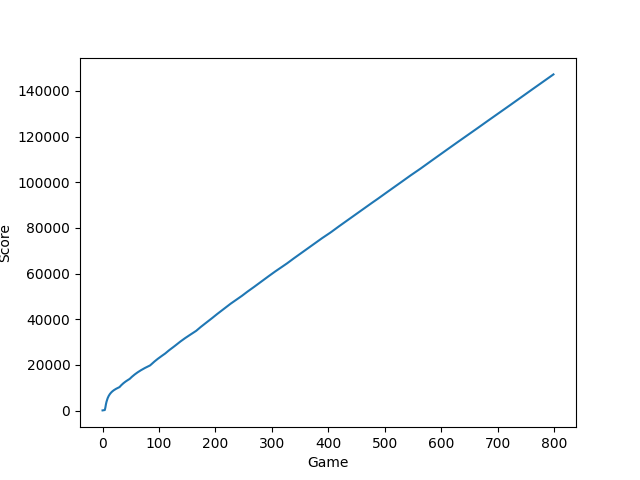
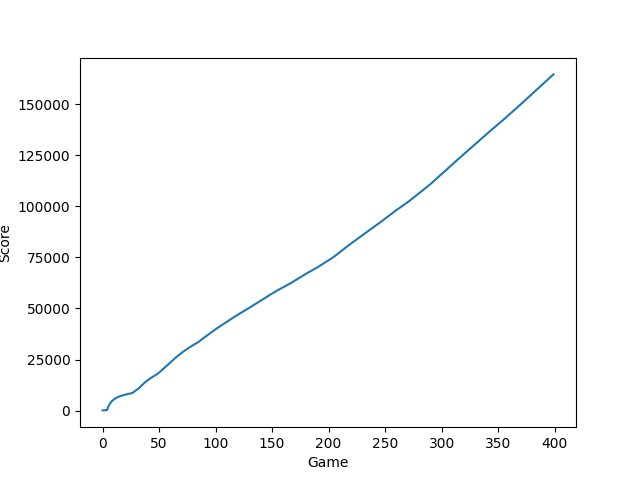
output from actor isn't weight yet

diff --git a/environment/environment.py b/environment/environment.py
@@ -12,12 +12,13 @@ def GenerateRandomState(n):
 
 class TaskAllocationEnvironment(Env):
     def __init__(self, cpuPower, ddl):
-        self.cpuPower = cpuPower
+        self.cpuPower = np.array(cpuPower)
         self.Num_worker = len(cpuPower)
         self.state = GenerateRandomState(self.Num_worker)
         self.completion = [1,1,1]
         self.ddl = ddl
-        self.task = 30
+        self.task = []
+        self.taskList = []
     """
         execute action and return next state and reward
         @:param action: a list of task allocation
@@ -26,28 +27,19 @@ class TaskAllocationEnvironment(Env):
         info = ''
         # sort_index = np.argsort(self.taskList)
         # sort_index2 = np.argsort(action)
-        self.completion = []
-        for i in range(self.Num_worker):
-            status = self.task * action[i] / self.cpuPower[i] - self.ddl
-            if self.task * action[i] / self.cpuPower[i] - self.ddl <= 0:
-                self.state[i] = 1
-            else:
-                self.state[i] = 0
-            self.completion.append(self.task * action[i]) #adding completion influence
 
+        allocation = np.array(self.allocateTask(sorted(self.taskList), action))
 
-        reward = 0
-        for i in range(self.Num_worker):
-            reward += self.task * action[i] * self.state[i]
-        cost = 0
-        for i in range(self.Num_worker):
-            cost += self.task * action[i] * (self.state[i] - 1)
+        self.state = allocation / self.cpuPower < self.ddl
+        reward = self.state * allocation
+
         done = all(d == 1 for d in self.state)
         print('reward ', reward)
-        return self.state + [self.task] + self.completion, reward, done, info
+        print('state', self.state)
+        return self.task , float(np.sum(reward)), done, info
 
     def observe(self):
-        return self.state + [self.task] + self.completion
+        return self.task
 
     """
         code from tutorial
@@ -62,5 +54,25 @@ class TaskAllocationEnvironment(Env):
     """
     def reset(self):
         pass
+
+    def allocateTask(self, sort_train, predicted_load_capacity):
+        allocation = [0] * predicted_load_capacity
+        for a in sort_train:
+            assign = False
+            for i in range(len(predicted_load_capacity)):
+                if a < predicted_load_capacity[i] - allocation[i]:
+                    allocation[i] += a
+                    assign = True
+                    break
+
+            if assign:
+                continue
+
+            exceed = []
+            for i in range(len(predicted_load_capacity)):
+                exceed.append(a - predicted_load_capacity[i] + allocation[i])
+            best_exceed = np.argmin(np.array(exceed))
+            allocation[best_exceed] += a
+        return allocation
 
 

diff --git a/model/critic.py b/model/critic.py
@@ -15,7 +15,7 @@ class CriticNetwork(nn.Module):
         self.n_actions = n_actions
         self.checkpoint_file = os.path.join(chkpt_dir, name + '_ddpg')
 
-        self.fc1 = nn.Linear(*self.input_dims, self.fc1_dims)
+        self.fc1 = nn.Linear(3, self.fc1_dims)
         f1 = 1. / np.sqrt(self.fc1.weight.data.size()[0])
         T.nn.init.uniform_(self.fc1.weight.data, -f1, f1)
         T.nn.init.uniform_(self.fc1.bias.data, -f1, f1)
@@ -23,40 +23,22 @@ class CriticNetwork(nn.Module):
         # self.fc1.bias.data.uniform_(-f1, f1)
         self.bn1 = nn.LayerNorm(self.fc1_dims)
 
-        self.fc2 = nn.Linear(self.fc1_dims, self.fc2_dims)
+        self.fc2 = nn.Linear(self.fc1_dims, 1)
         f2 = 1. / np.sqrt(self.fc2.weight.data.size()[0])
         # f2 = 0.002
         T.nn.init.uniform_(self.fc2.weight.data, -f2, f2)
         T.nn.init.uniform_(self.fc2.bias.data, -f2, f2)
-        # self.fc2.weight.data.uniform_(-f2, f2)
-        # self.fc2.bias.data.uniform_(-f2, f2)
-        self.bn2 = nn.LayerNorm(self.fc2_dims)
-
-        self.action_value = nn.Linear(self.n_actions, self.fc2_dims)
-        f3 = 0.003
-        self.q = nn.Linear(self.fc2_dims, 1)
-        T.nn.init.uniform_(self.q.weight.data, -f3, f3)
-        T.nn.init.uniform_(self.q.bias.data, -f3, f3)
-        # self.q.weight.data.uniform_(-f3, f3)
-        # self.q.bias.data.uniform_(-f3, f3)
 
         self.optimizer = optim.Adam(self.parameters(), lr=beta)
         self.device = T.device('cuda:0' if T.cuda.is_available() else 'cpu')
 
         self.to(self.device)
 
-    def forward(self, state, action):
-        state_value = self.fc1(state)
-        state_value = self.bn1(state_value)
-        state_value = F.relu(state_value)
-        state_value = self.fc2(state_value)
-        state_value = self.bn2(state_value)
+    def forward(self, action):
+        x = self.fc1(action)
+        x = self.fc2(x)
 
-        action_value = F.relu(self.action_value(action))
-        state_action_value = F.relu(T.add(state_value, action_value))
-        state_action_value = self.q(state_action_value)
-
-        return state_action_value
+        return x
 
     def save_checkpoint(self):
         print('... saving checkpoint ...')

diff --git a/model/actor.py b/model/actor.py
@@ -1,6 +1,7 @@
 import os
 
 import numpy as np
+import torch
 import torch.nn as nn
 import torch as T
 import torch.nn.functional as F
@@ -17,31 +18,10 @@ class ActorNetwork(nn.Module):
         self.n_actions = n_actions
         self.checkpoint_file = os.path.join(chkpt_dir, name + '_ddpg')
 
-        self.fc1 = nn.Linear(*self.input_dims, self.fc1_dims)
+        self.fc1 = nn.Linear(*self.input_dims, self.n_actions)
         f1 = 1. / np.sqrt(self.fc1.weight.data.size()[0])
         T.nn.init.uniform_(self.fc1.weight.data, -f1, f1)
         T.nn.init.uniform_(self.fc1.bias.data, -f1, f1)
-        # self.fc1.weight.data.uniform_(-f1, f1)
-        # self.fc1.bias.data.uniform_(-f1, f1)
-        self.bn1 = nn.LayerNorm(self.fc1_dims)
-
-        self.fc2 = nn.Linear(self.fc1_dims, self.fc2_dims)
-        # f2 = 0.002
-        f2 = 1. / np.sqrt(self.fc2.weight.data.size()[0])
-        T.nn.init.uniform_(self.fc2.weight.data, -f2, f2)
-        T.nn.init.uniform_(self.fc2.bias.data, -f2, f2)
-        # self.fc2.weight.data.uniform_(-f2, f2)
-        # self.fc2.bias.data.uniform_(-f2, f2)
-        self.bn2 = nn.LayerNorm(self.fc2_dims)
-
-        # f3 = 0.004
-        f3 = 0.003
-        self.mu = nn.Linear(self.fc2_dims, self.n_actions)
-        T.nn.init.uniform_(self.mu.weight.data, -f3, f3)
-        T.nn.init.uniform_(self.mu.bias.data, -f3, f3)
-        # self.mu.weight.data.uniform_(-f3, f3)
-        # self.mu.bias.data.uniform_(-f3, f3)
-
         self.optimizer = optim.Adam(self.parameters(), lr=alpha)
         self.device = T.device('cuda:0' if T.cuda.is_available() else 'cpu')
 
@@ -54,18 +34,10 @@ class ActorNetwork(nn.Module):
         :return: need to find a way to define action
         """
         x = self.fc1(state)
-        x = self.bn1(x)
-        x = F.relu(x)
-        x = self.fc2(x)
-        x = self.bn2(x)
-        x = F.relu(x)
-        # x = T.tanh(self.mu(x))
-        x = self.mu(x)
-        x = F.sigmoid(x)
-        m = T.distributions.dirichlet.Dirichlet(x)
-
-
-        return m.sample()
+        x = torch.div(state, x)
+        x = x * 5
+        # x = F.relu(x)
+        return x
 
     def save_checkpoint(self):
         print('... saving checkpoint ...')

diff --git a/main.py b/main.py
@@ -8,30 +8,29 @@ from model.agent import Agent
 from dataset import data
 
 env = TaskAllocationEnvironment([10, 20, 30], 5)
-agent = Agent(alpha=10e-3, beta=10e-3, input_dims=[3*2+1], tau=0.001, env=env,
-              batch_size=64,  layer1_size=400, layer2_size=300, n_actions=3)
+agent = Agent(alpha=10e-3, beta=10e-3, input_dims=[1], tau=0.001, env=env,
+              batch_size=64,  layer1_size=200, layer2_size=300, n_actions=3)
 
 #agent.load_models()
 np.random.seed(0)
 
 
-
-
-
 def training():
     score = 0
     score_history = []
-    for epoch in range(10):
+    for epoch in range(5):
         print('epoch', epoch)
         for i in range(len(train)):
             game = 0
-            env.task = train[i]
+            #todo use sum of task to predict delay
+            env.task = [sum(train[i])]
+            env.taskList = train[i]
             obs = env.observe()
             done = False
 
             while not done and game < 100:
                 act = agent.choose_action(obs)
-                print(act)
+                print('action', act)
                 #todo maximizing q value does not maximize reward
 
                 new_state, reward, done, info = env.step(act)
@@ -49,7 +48,7 @@ def training():
 
             #if i % 25 == 0:
             #    agent.save_models()
-            print('\033[92m' + 'terminal' + '\033[0m')
+            print('\033[92m' + 'terminal' + str(game)+ '\033[0m')
             print('episode ', i, 'score %.2f' % score,
                   'trailing 100 games avg %.3f ' % np.mean(score_history[-100:]))
 
@@ -61,7 +60,8 @@ def eval():
     score = 0
     score_history = []
     for i in range(len(test)):
-        env.task = test[i]
+        env.task = [sum(test[i])]
+        env.taskList = test[i]
         obs = env.observe()
         act = agent.choose_action(obs)
 
@@ -75,11 +75,12 @@ def eval():
     from util import util
     util.plotLearning(score_history, 'test', window=5)
     print(score)
-    print(sum(test))
+    print(sum(sum(test,[])))
 
 
 if __name__ == '__main__':
     train, test = data.getDataList('dataset/100dataset.txt')
     training()
     eval()
+
 

diff --git a/model/agent.py b/model/agent.py
@@ -60,9 +60,9 @@ class Agent(object):
         self.actor.eval()
         observation = T.tensor(observation, dtype=T.float).to(self.actor.device)
         mu = self.actor.forward(observation).to(self.actor.device)
-        # mu_prime = mu + T.tensor(self.noise(),
-        #                          dtype=T.float).to(self.actor.device)
-        mu_prime = mu
+        mu_prime = mu + T.tensor(self.noise(),
+                                 dtype=T.float).to(self.actor.device)
+        # mu_prime = mu
         self.actor.train()
         self.critic.eval()
         # print('critic value', float(self.critic.forward(observation, mu_prime)))
@@ -89,8 +89,8 @@ class Agent(object):
         self.target_critic.eval()
         self.critic.eval()
         target_actions = self.target_actor.forward(new_state)
-        critic_value_ = self.target_critic.forward(new_state, target_actions)
-        critic_value = self.critic.forward(state, action)
+        critic_value_ = self.target_critic.forward(target_actions)
+        critic_value = self.critic.forward(action)
 
         target = []
         for j in range(self.batch_size):
@@ -108,7 +108,7 @@ class Agent(object):
         self.actor.optimizer.zero_grad()
         mu = self.actor.forward(state)
         self.actor.train()
-        actor_loss = self.critic.forward(state, mu)
+        actor_loss = self.critic.forward(mu)
         actor_loss = T.mean(actor_loss)
         actor_loss.backward()
         self.actor.optimizer.step()

diff --git a/dataset/rewardVisualization.py b/dataset/rewardVisualization.py
@@ -1,0 +1,45 @@
+# import numpy as np
+# from mknapsack import solve_multiple_knapsack
+#
+# from dataset import data
+#
+#
+#
+#
+# def allocateTask(sort_train, predicted_load_capacity):
+#     allocation = [0] * predicted_load_capacity
+#     for a in sort_train:
+#         assign = False
+#         for i in range(len(predicted_load_capacity)):
+#             if a < predicted_load_capacity[i] - allocation[i]:
+#                 allocation[i] += a
+#                 assign = True
+#                 break
+#
+#         if assign:
+#             continue
+#
+#         exceed = []
+#         for i in range(len(predicted_load_capacity)):
+#             exceed.append(a - predicted_load_capacity[i] + allocation[i])
+#         best_exceed = np.argmin(np.array(exceed))
+#         allocation[best_exceed] += a
+#     return allocation
+#
+#
+# if __name__ == '__main__':
+#     predicted_load_capacity = np.ceil(np.random.normal([5,10,15], [5, 5, 5], (3, 3)))
+#     train, test = data.getDataList('100dataset.txt')
+#     CPUPower = np.array([5, 10, 15])
+#     ddl = 5
+#     print(predicted_load_capacity[0])
+#     print(train[0])
+#
+#
+#     sort_train = sorted(train[0], reverse=True)
+#     allocation = np.array(allocateTask(sort_train, predicted_load_capacity[0]))
+#     state = allocation/CPUPower < ddl
+#     reward = state * allocation
+#     print(allocation)
+#     print(sum(allocation) == sum(sort_train))
+#     print('reward', reward)

diff --git a/dataset/data.py b/dataset/data.py
@@ -1,4 +1,6 @@
-import numpy
+import random
+
+import numpy as np
 import pandas as pd
 
 def getDataList(file):
@@ -6,7 +8,19 @@ def getDataList(file):
     a =  []
     for line in f:
         a.append(int(line.strip()))
-    train = a[:int(0.8*len(a))]
-    test = a[int(0.8*len(a)):]
+    # train = a[:int(0.8*len(a))]
+    # test = a[int(0.8*len(a)):]
+    train = []
+    test = []
+    for data in a[:int(0.8*len(a))]:
+        size = random.randint(4, 10)
+        train.append(list(np.ceil(data * np.random.dirichlet([1]*size))))
+    for data in a[int(0.8*len(a)):]:
+        size = random.randint(4, 10)
+        test.append(list(np.ceil(data * np.random.dirichlet([1] * size))))
     return train, test
+
+if __name__ == '__main__':
+    train, test = getDataList('100dataset.txt')
+    print(train)
 

diff --git a/knapsack/knapsack.py b/knapsack/knapsack.py
@@ -1,0 +1,14 @@
+from mknapsack import solve_multiple_knapsack
+
+# Given ten items with the following profits and weights:
+profits = [18, 9, 23, 20, 59, 61, 70, 75, 76, 30]
+weights = [18, 9, 23, 20, 59, 61, 70, 75, 76, 30]
+
+# ...and two knapsacks with the following capacities:
+capacities = [sum(weights)/2, sum(weights)/2]
+
+#if remain assign it to the one with smallest capacity overflow
+
+# Assign items into the knapsacks while maximizing profits
+res = solve_multiple_knapsack(profits, weights, capacities)
+print(res)
